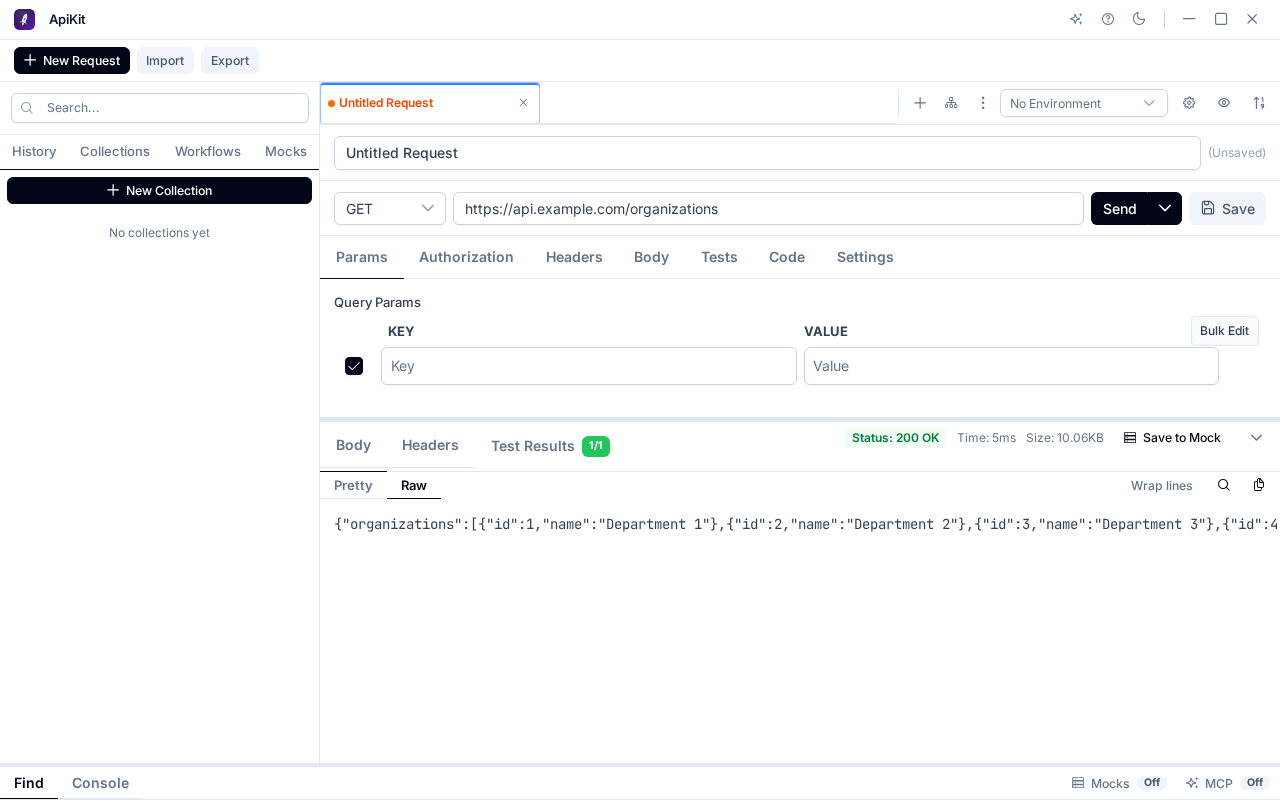
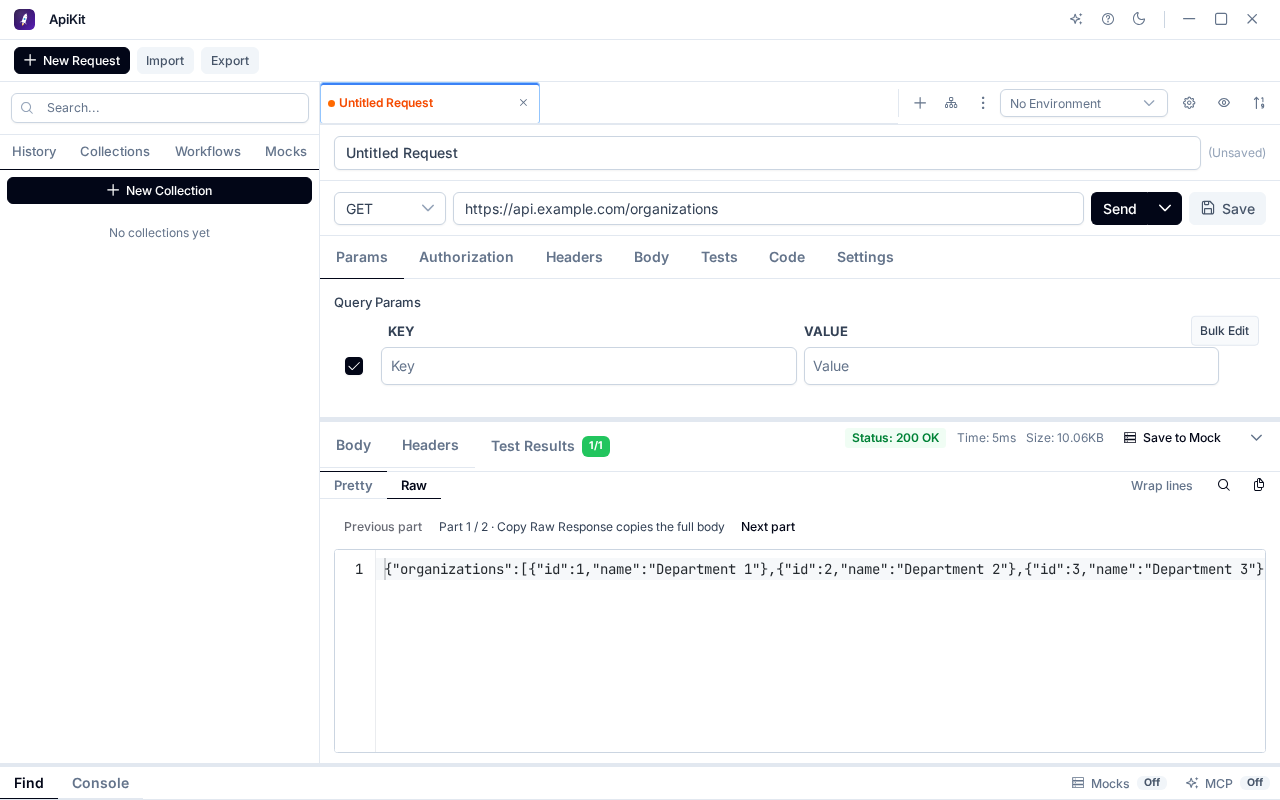
fix: 限制超长响应展示并在重发前释放旧响应

Changed region(s): [[0.2812, 0.625, 1.0, 0.7188]]

diff --git a/e2e/response-memory.e2e.ts b/e2e/response-memory.e2e.ts
@@ -20,18 +20,46 @@ test('disables wrapping for long Raw lines, allows opting in, and resets for eac
   await app.setMockResponse({ contentType: 'text/plain', body });
   await app.request.getByRole('button', { name: 'Send', exact: true }).click();
   await app.request.getByRole('tab', { name: 'Raw', exact: true }).click();
-  const raw = app.request.locator('pre.response-pre');
-  await expect(raw).toHaveCSS('white-space', 'pre');
-  await expect(raw).toHaveText(body);
+  const editor = app.request.locator('.response-tabs .ace_editor');
+  await expect(editor).toBeVisible();
+  const wrapping = () => editor.evaluate((el: any) => el.env.editor.session.getUseWrapMode());
+  expect(await editor.evaluate((el: any) => el.env.editor.getValue())).toBe(body.slice(0, 8192));
+  await expect.poll(wrapping).toBe(false);
+  await app.request.getByRole('button', { name: 'Next part', exact: true }).click();
+  expect(await editor.evaluate((el: any) => el.env.editor.getValue())).toBe(body.slice(8192, 16384));
+  await app.request.getByRole('button', { name: 'Previous part', exact: true }).click();
   const wrap = app.request.getByRole('button', { name: 'Wrap lines', exact: true });
   await expect(wrap).toHaveAttribute('aria-pressed', 'false');
   await wrap.click();
-  await expect(raw).toHaveCSS('white-space', 'pre-wrap');
+  await expect.poll(wrapping).toBe(true);
   await expect(wrap).toHaveAttribute('aria-pressed', 'true');
   await app.request.getByRole('button', { name: 'Send', exact: true }).click();
   await expect(wrap).toHaveAttribute('aria-pressed', 'false');
   await app.setMockResponse({ contentType: 'text/plain', body: 'short response' });
   await app.request.getByRole('button', { name: 'Send', exact: true }).click();
+  const raw = app.request.locator('pre.response-pre');
   await expect(raw).toHaveText('short response');
   await expect(raw).toHaveCSS('white-space', 'pre-wrap');
+});
+
+test('keeps large Raw rendering bounded while switching response panels', async ({ app }) => {
+  await app.setMockResponse({ contentType: 'text/plain', body: JSON.stringify({ payload: '部门'.repeat(500000), end: 'complete' }) });
+  await app.request.getByRole('button', { name: 'Send', exact: true }).click();
+  await app.request.getByRole('tab', { name: 'Raw', exact: true }).click();
+  const viewer = app.request.locator('.response-tabs .ace_editor');
+  await expect(viewer).toBeVisible();
+  await expect.poll(() => viewer.locator('.ace_text-layer').evaluate(el => el.textContent?.length || 0)).toBeLessThan(20000);
+  await app.request.getByTitle('Search in response', { exact: true }).click();
+  await app.request.getByPlaceholder('Search...').fill('complete');
+  await expect.poll(() => viewer.evaluate((el: any) => el.env.editor.getSelectedText())).toBe('complete');
+  await expect(viewer.locator('.ace_text-layer')).toContainText('complete');
+  await app.request.getByTitle('Close search', { exact: true }).click();
+  for (let i = 0; i < 2; i++) {
+    await app.request.locator('.response-tabs').getByRole('tab', { name: 'Headers', exact: true }).click();
+    await expect(app.request.locator('.response-tabs')).toContainText('text/plain');
+    await app.request.locator('.response-tabs').getByRole('tab', { name: /Test Results/ }).click();
+    await app.request.locator('.response-tabs').getByRole('tab', { name: 'Body', exact: true }).click();
+    await expect(viewer).toBeVisible();
+    await expect(viewer.locator('.ace_text-layer')).toContainText(/payload|complete/);
+  }
 });

diff --git a/src/components/RawResponsePage.vue b/src/components/RawResponsePage.vue
@@ -1,0 +1,40 @@
+<script setup lang="ts">
+import { computed, ref, watch } from 'vue';
+import CodeEditor from './CodeEditor.vue';
+import type { TextMatch } from '@/utils/textSearch';
+const props = defineProps<{ modelValue: string; wrapLines: boolean; searchMatches: TextMatch[]; currentMatchIndex: number }>();
+const emit = defineEmits<{ 'ctrl-f': [selectedText: string] }>();
+const PAGE_SIZE = 8192;
+const page = ref(0);
+const count = computed(() => Math.max(1, Math.ceil(props.modelValue.length / PAGE_SIZE)));
+// 不在 UTF-16 代理对中间切开显示段。
+const boundary = (offset: number) => {
+  const code = props.modelValue.charCodeAt(offset);
+  return code >= 0xdc00 && code <= 0xdfff ? offset - 1 : offset;
+};
+const start = computed(() => boundary(page.value * PAGE_SIZE));
+const end = computed(() => boundary(Math.min((page.value + 1) * PAGE_SIZE, props.modelValue.length)));
+const text = computed(() => props.modelValue.slice(start.value, end.value));
+const matches = computed(() => props.searchMatches.flatMap((match, index) => {
+  const from = Math.max(match.index, start.value);
+  const to = Math.min(match.index + match.length, end.value);
+  return from < to ? [{ ...match, index: from - start.value, length: to - from, sourceIndex: index }] : [];
+}));
+const current = computed(() => matches.value.findIndex(match => match.sourceIndex === props.currentMatchIndex));
+watch(() => props.modelValue, () => { page.value = 0; });
+watch(() => [props.searchMatches, props.currentMatchIndex], () => {
+  const match = props.searchMatches[props.currentMatchIndex];
+  if (match) page.value = Math.floor(match.index / PAGE_SIZE);
+});
+</script>
+<template>
+  <div class="flex flex-col min-h-0 min-w-0">
+    <div class="flex items-center gap-2 text-xs mb-2 shrink-0">
+      <Button label="Previous part" size="small" text :disabled="page === 0" @click="page--" />
+      <span>Part {{ page + 1 }} / {{ count }} · Copy Raw Response copies the full body</span>
+      <Button label="Next part" size="small" text :disabled="page + 1 >= count" @click="page++" />
+    </div>
+    <CodeEditor class="flex-1" style="min-height: 0" :modelValue="text" language="text" :readOnly="true" :wrapLines="wrapLines"
+      :searchMatches="matches" :currentMatchIndex="current" @ctrl-f="emit('ctrl-f', $event)" />
+  </div>
+</template>

diff --git a/src/components/ResponseViewer.vue b/src/components/ResponseViewer.vue
@@ -1,5 +1,6 @@
 <script setup lang="ts">
 import { defineAsyncComponent, ref, computed, watch } from 'vue';
+import RawResponsePage from './RawResponsePage.vue';
 import AsyncPanelLoader from './AsyncPanelLoader.vue';
 import { getOperatorLabel } from '@/constants/testOperators';
 import StreamResponseView from './StreamResponseView.vue';
@@ -57,6 +58,7 @@ const previewText = (text: string | undefined) => {
 const displayBody = computed(() => previewText(props.response?.body));
 const displayRawBody = computed(() => previewText(props.response?.rawBody));
 
+const rawNeedsEditor = computed(() => !shouldWrapResponseText(displayRawBody.value));
 const rawWrapLines = ref(true);
 watch(() => props.response, (response) => {
   rawWrapLines.value = shouldWrapResponseText(response?.rawBody ?? '');
@@ -681,9 +683,20 @@ const selectAllPreContent = (event: KeyboardEvent) => {
             </div>
 
             <!-- Raw View -->
-            <div v-else class="flex-1 min-w-0 overflow-auto p-4">
+            <div v-else class="flex-1 min-h-0 min-w-0 overflow-auto p-4 flex flex-col">
+              <RawResponsePage
+                v-if="rawNeedsEditor"
+                class="flex-1"
+                :modelValue="displayRawBody"
+                language="text"
+                :readOnly="true"
+                :wrapLines="rawWrapLines"
+                :searchMatches="searchMatches"
+                :currentMatchIndex="currentMatchIndex"
+                @ctrl-f="openSearchBox"
+              />
               <!-- Text with search highlighting -->
-              <pre v-if="searchMatches.length > 0" class="response-pre" :style="{ whiteSpace: rawWrapLines ? 'pre-wrap' : 'pre' }" tabindex="0" @keydown="selectAllPreContent" v-html="highlightedResponseBody"></pre>
+              <pre v-else-if="searchMatches.length > 0" class="response-pre" :style="{ whiteSpace: rawWrapLines ? 'pre-wrap' : 'pre' }" tabindex="0" @keydown="selectAllPreContent" v-html="highlightedResponseBody"></pre>
               <!-- Text without search -->
               <pre v-else class="response-pre" :style="{ whiteSpace: rawWrapLines ? 'pre-wrap' : 'pre' }" tabindex="0" @keydown="selectAllPreContent">{{ displayRawBody }}</pre>
             </div>

diff --git a/e2e/response-reset.e2e.ts b/e2e/response-reset.e2e.ts
@@ -1,0 +1,41 @@
+import { expect, test } from './fixtures/app';
+
+for (const scenario of ['failure', 'cancelled', 'download']) {
+test(`releases previous response before ${scenario} and keeps other request caches`, async ({ app }) => {
+  await app.open();
+  await app.newRequest();
+  await app.url.fill('https://example.com/first');
+  await app.setMockResponse({ contentType: 'text/plain', body: 'previous-response' });
+  await app.request.getByRole('button', { name: 'Send', exact: true }).click();
+  await expect(app.request.locator('pre.response-pre')).toHaveText('previous-response');
+  await app.run((scenario) => {
+    const store = window.__store('requests');
+    const [id, cache] = [...store.responseCache.entries()].find(([, c]: any) => c.response?.rawBody === 'previous-response') as any;
+    store.setResponseCache('other-request', { ...cache, response: { ...cache.response, rawBody: 'other-response' } });
+    const internals = (window as any).__TAURI_INTERNALS__;
+    const original = internals.invoke;
+    internals.invoke = async (cmd: string, args: any) => {
+      if (cmd === 'send_http_request') {
+        (window as any).__resetObserved = {
+          response: store.getResponseCache(id)?.response,
+          tests: store.getResponseCache(id)?.testResults,
+          oldViewCount: document.querySelectorAll('pre.response-pre, .response-tabs .ace_editor').length,
+          other: store.getResponseCache('other-request')?.response?.rawBody,
+        };
+        if (scenario === 'cancelled') throw 'Request cancelled';
+        throw new Error('network unavailable');
+      }
+      return original(cmd, args);
+    };
+  }, scenario);
+  if (scenario === 'download') {
+    await app.request.locator('.p-splitbutton-dropdown').click();
+    await app.page.getByText('Send And Download', { exact: true }).click();
+  } else {
+    await app.request.getByRole('button', { name: 'Send', exact: true }).click();
+  }
+  await expect.poll(() => app.run(() => (window as any).__resetObserved)).toEqual({ response: null, tests: null, oldViewCount: 0, other: 'other-response' });
+  await expect(app.request).not.toContainText('previous-response');
+});
+
+}

diff --git a/src/components/HttpRequest.vue b/src/components/HttpRequest.vue
@@ -58,7 +58,7 @@ const emit = defineEmits<{
 const requestsStore = useRequestsStore();
 
 // 从 store 的 responseCache 恢复状态
-const cachedState = requestsStore.getResponseCache(props.request.id);
+let cachedState = requestsStore.getResponseCache(props.request.id);
 
 // Tests 相关数据（编辑 UI 在 RequestTestsEditor 子组件；这里持有数据供执行/保存/恢复）
 const statusCodeTests = ref<StatusCodeTest[]>([
@@ -126,6 +126,8 @@ const isUrlInputFocused = ref(false); // URL 输入框是否获得焦点
 const isParamsBulkEdit = ref(false);
 const paramsBulkText = ref('');
 const testResults = ref<RequestTestResults | null>(cachedState?.testResults || null);
+// 初始化完成后释放缓存快照，避免它继续持有上次的大响应。
+cachedState = null;
 let currentRequestId: string | null = null; // 当前请求 ID，用于取消
 
 // Settings - 从请求中加载或使用默认值
@@ -385,12 +387,20 @@ const validateBodyBeforeSend = async (): Promise<boolean> => {
   return false;
 };
 
+// 清空当前响应并等待缓存同步、旧编辑器卸载后再开始下一次请求。
+const discardPreviousResponse = async () => {
+  response.value = null;
+  testResults.value = null;
+  await nextTick();
+};
+
 // 发送请求：拼请求、发送、解析响应、执行断言都由 HttpExecutionService 完成，与 Workflow、MCP 一致
 const sendRequest = async () => {
   if (!(await validateBodyBeforeSend())) return;
   let requestId: string | null = null;
   isLoading.value = true;
   isResponseCollapsed.value = false; // 发送请求时展开响应区域
+  await discardPreviousResponse();
   const startTime = Date.now();
 
   try {
@@ -423,6 +433,7 @@ const sendAndDownload = async () => {
   let requestId: string | null = null;
   isLoading.value = true;
   isResponseCollapsed.value = false;
+  await discardPreviousResponse();
   const startTime = Date.now();
 
   try {

diff --git a/src/components/CodeEditor.vue b/src/components/CodeEditor.vue
@@ -7,6 +7,7 @@ const props = withDefaults(defineProps<{
   language?: 'json' | 'xml' | 'html' | 'urlencoded' | 'text';
   readOnly?: boolean;
   autoHeight?: boolean;
+  wrapLines?: boolean;
   searchMatches?: SearchMatch[];
   currentMatchIndex?: number;
 }>(), {
@@ -14,6 +15,7 @@ const props = withDefaults(defineProps<{
   language: 'json',
   readOnly: false,
   autoHeight: false,
+  wrapLines: false,
   searchMatches: () => [],
   currentMatchIndex: -1
 });
@@ -86,6 +88,7 @@ onMounted(() => {
   });
   editor = instance;
   applyBaseOptions(instance);
+  instance.session.setUseWrapMode(props.wrapLines);
   setReadOnly(instance, props.readOnly);
   setLanguage();
   instance.clearSelection();
@@ -128,6 +131,8 @@ watch(() => props.language, () => {
   setLanguage();
   updateSearchHighlights();
 });
+
+watch(() => props.wrapLines, value => editor?.session.setUseWrapMode(value));
 
 watch(() => props.readOnly, (val) => { if (editor) setReadOnly(editor, val); });
 

diff --git a/docs/screenshots/response.shots.ts b/docs/screenshots/response.shots.ts
@@ -8,6 +8,6 @@ test('response Raw wrapping option', async ({ app, page }) => {
   await app.request.getByRole('button', { name: 'Send', exact: true }).click();
   await app.request.getByRole('tab', { name: 'Raw', exact: true }).click();
   await expect(app.request.getByRole('button', { name: 'Wrap lines' })).toHaveAttribute('aria-pressed', 'false');
-  await expect(app.request.locator('pre.response-pre')).toHaveCSS('white-space', 'pre');
+  await expect(app.request.locator('.response-tabs .ace_editor')).toBeVisible();
   await page.screenshot({ path: 'docs/public/screenshots/response-raw.png', animations: 'disabled' });
 });

diff --git a/docs/en/guide/responses.md b/docs/en/guide/responses.md
@@ -65,3 +65,7 @@ For streaming responses, JSON field assertions and variable extraction read the 
 `usage` is the usage object as the API returns it, so the field names depend on the API. For example, assert `text` contains `hello`, or extract `usage.completion_tokens` into a variable.
 
 In a custom format with result events, `text` joins the text of the result events, and `results` holds the last event of each name, for example `results.result.data.suggestAction` or `results.fill.content`.
+
+Very long Raw lines display up to 8,192 characters per part. Use Previous part / Next part to navigate; full-text search jumps to the matching part. Copy Raw Response and saving use the full body; selection and copying inside the editor apply to the current part.
+
+After body validation succeeds, Send and Send And Download clear the current request’s previous response and test results before sending. Failure or cancellation does not restore the old response. Other request tabs, History and Console records remain independent. Memory reclamation is managed by the runtime and may not immediately reduce OS memory usage.

diff --git a/CHANGELOG.md b/CHANGELOG.md
@@ -10,6 +10,18 @@
 
 ## [Unreleased]
 
+### Changed
+- Release the current request’s previous response and test results before sending again, including Send And Download.
+
+### Fixed
+- Render very long Raw lines in bounded parts in the plain-text editor to reduce blocking during response tab switches.
+
+### 变更
+- 再次发送（含 Send And Download）前释放当前请求的旧响应和测试结果引用。
+
+### 修复
+- 超长行 Raw 改用纯文本编辑器分段展示，全文搜索自动定位对应段，减少切换响应页签时的布局阻塞。
+
 ## [0.5.9] - 2026-11-17
 
 ### Fixed

diff --git a/README.en.md b/README.en.md
@@ -147,3 +147,7 @@ ApiKit is built on these excellent open source projects:
 Made with ❤ by [@duwei0227](https://github.com/duwei0227)
 
 </div>
+
+Very long Raw lines display up to 8,192 characters per part. Use Previous part / Next part to navigate; full-text search jumps to the matching part. Copy Raw Response and saving use the full body; selection and copying inside the editor apply to the current part.
+
+Starting a new request clears its previous response and test results to reduce overlapping memory use.

diff --git a/README.md b/README.md
@@ -147,3 +147,7 @@ ApiKit 的开发离不开以下优秀的开源项目：
 Made with ❤ by [@duwei0227](https://github.com/duwei0227)
 
 </div>
+
+超长行 Raw 每次显示最多 8,192 字符，通过 Previous part / Next part 翻页；全文搜索自动跳转到匹配段。Copy Raw Response 和保存使用完整原文，编辑器内选择与复制针对当前段。
+
+发送新请求前清空当前请求的上一份响应与测试结果，减少新旧响应同时占用内存。
